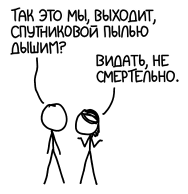
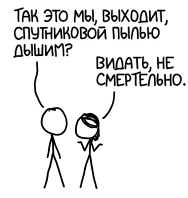
Update 'Space Jetta' images

Changed region(s): [[0.0532, 0.0309, 0.9043, 0.9278], [0.3989, 0.2784, 1.0, 0.9278]]

diff --git a/content/what-if/142-space-jetta.md b/content/what-if/142-space-jetta.md
@@ -21,7 +21,7 @@ Image: https://chtoes.li/uploads/142-space-jetta/front.png
 
 Если мы выведем машину на орбиту и позволим ей сгореть на обратном пути подобно отслужившему спутнику, загрязнять атмосферу выхлопными газами она перестанет.
 
-![](/uploads/142-space-jetta/tailpipe.png "Выходит, мне надо проходить техосмотр? Тогда понятно, почему за мной всюду гоняются эти машины с гирляндами на крыше.")
+![](/uploads/142-space-jetta/tailpipe_ru.png "Выходит, мне надо проходить техосмотр? Тогда понятно, почему за мной всюду гоняются эти машины с гирляндами на крыше.")
 
 С другой стороны, остатки сгоревшей машины (и водителя) разметает по стратосфере. А как влияет на наш воздух космический мусор?
 
